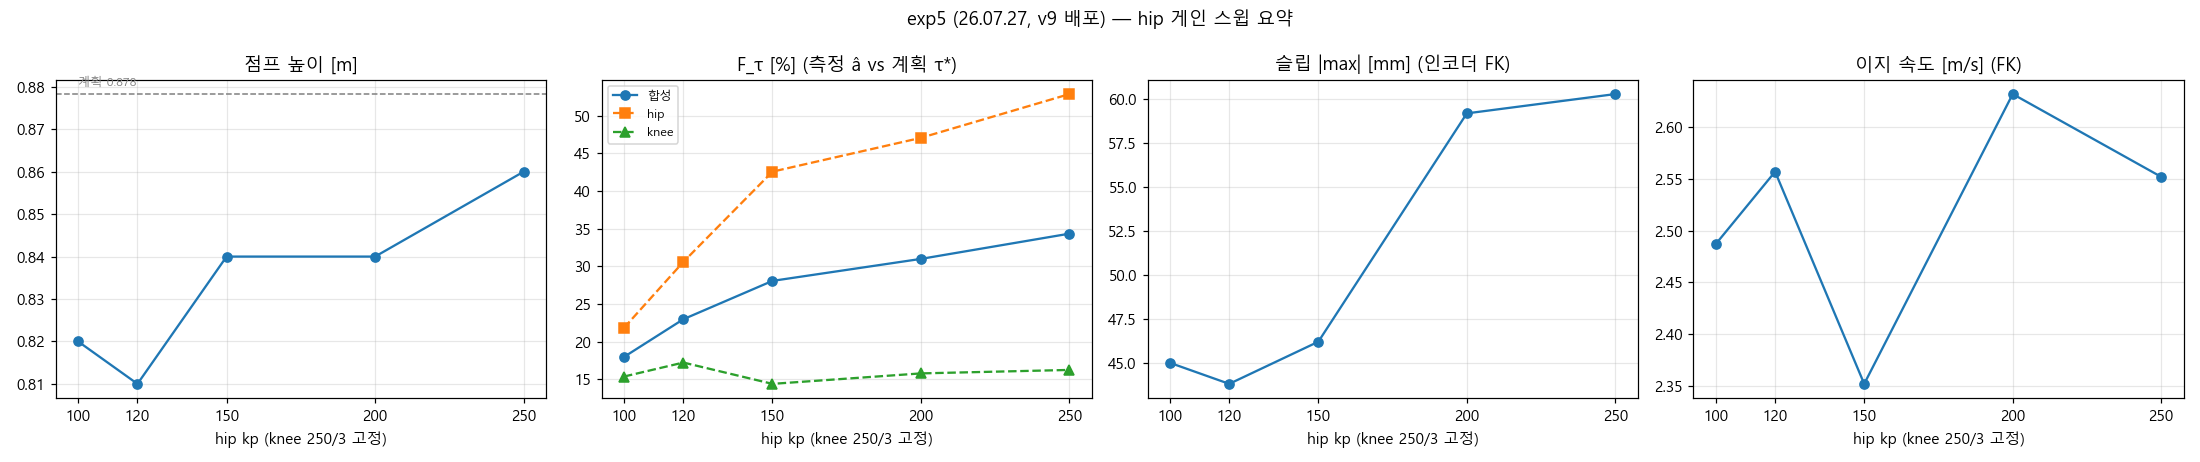
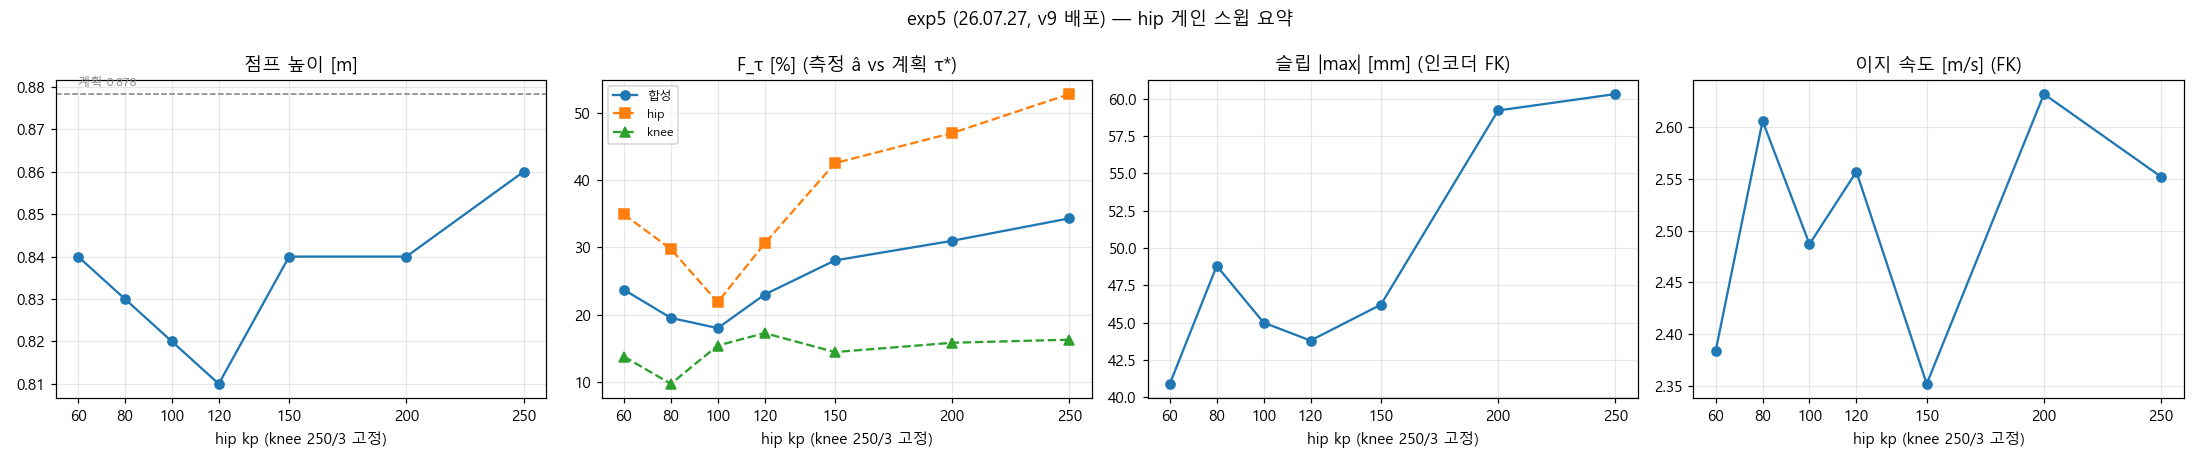
exp5 저게인 60·80 확장: 매칭 법칙 교과서 증명(F_τ V자 최소@실효58≈가정60) + hip α램프 완성 0.65→0.39 + ★label 60이 v9계획보다 나은 점프(0.84m·hip 13.3캡아래·슬립가역·knee보상)=충실도와 품질 분기 → v10=소프트hip 재최적화
Claude-Session: https://claude.ai/code/session_018tXRZDWy9RG1Z1qWD21UNo

diff --git a/code/goal22/p25_task0/exp5_analyze.py b/code/goal22/p25_task0/exp5_analyze.py
@@ -25,7 +25,9 @@ DATA = Path(r"C:/Users/junho/Desktop/Research/4-Bar Link CVT/Data/26.07.27")
 OUT = HERE / "graphs" / "exp5"
 OUT.mkdir(parents=True, exist_ok=True)
 
-GAINS = ["100_1.5_250_3", "120_2_250_3", "150_2.2_250_3", "200_2.5_250_3", "250_3_250_3"]
+GAINS = sorted([p.name for p in DATA.iterdir() if p.is_dir() and (p / "hip.xlsx").exists()],
+               key=lambda s: float(s.split("_")[0]))     # hip kp 오름차순 자동 발견 (60/80 추가)
+HIPKP = [float(g.split("_")[0]) for g in GAINS]
 L_SEG = 0.25                     # 두 링크 공통 (t0nc_cl_pdrep._L_SEG와 동일)
 
 # ── a_hat (p14_ahat/p14_judge.py 복제 — Paper 식, sgn(v) only) ──
@@ -170,7 +172,7 @@ for lab in GAINS:
 json.dump(RES, open(HERE / "_exp5.json", "w", encoding="utf-8"), ensure_ascii=False, indent=1)
 
 # ── 요약 4패널: 예측 채점 (h / F_τ / slip / v_lo vs hip 게인) ──
-hips = [100, 120, 150, 200, 250]
+hips = HIPKP
 fig, ax = plt.subplots(1, 4, figsize=(20, 4.2))
 h = [RES[g]["h_real"] for g in GAINS]
 ax[0].plot(hips, h, "o-"); ax[0].set_title("점프 높이 [m]"); ax[0].axhline(float(Z["h_plan"]), ls="--", lw=1, color="gray")
